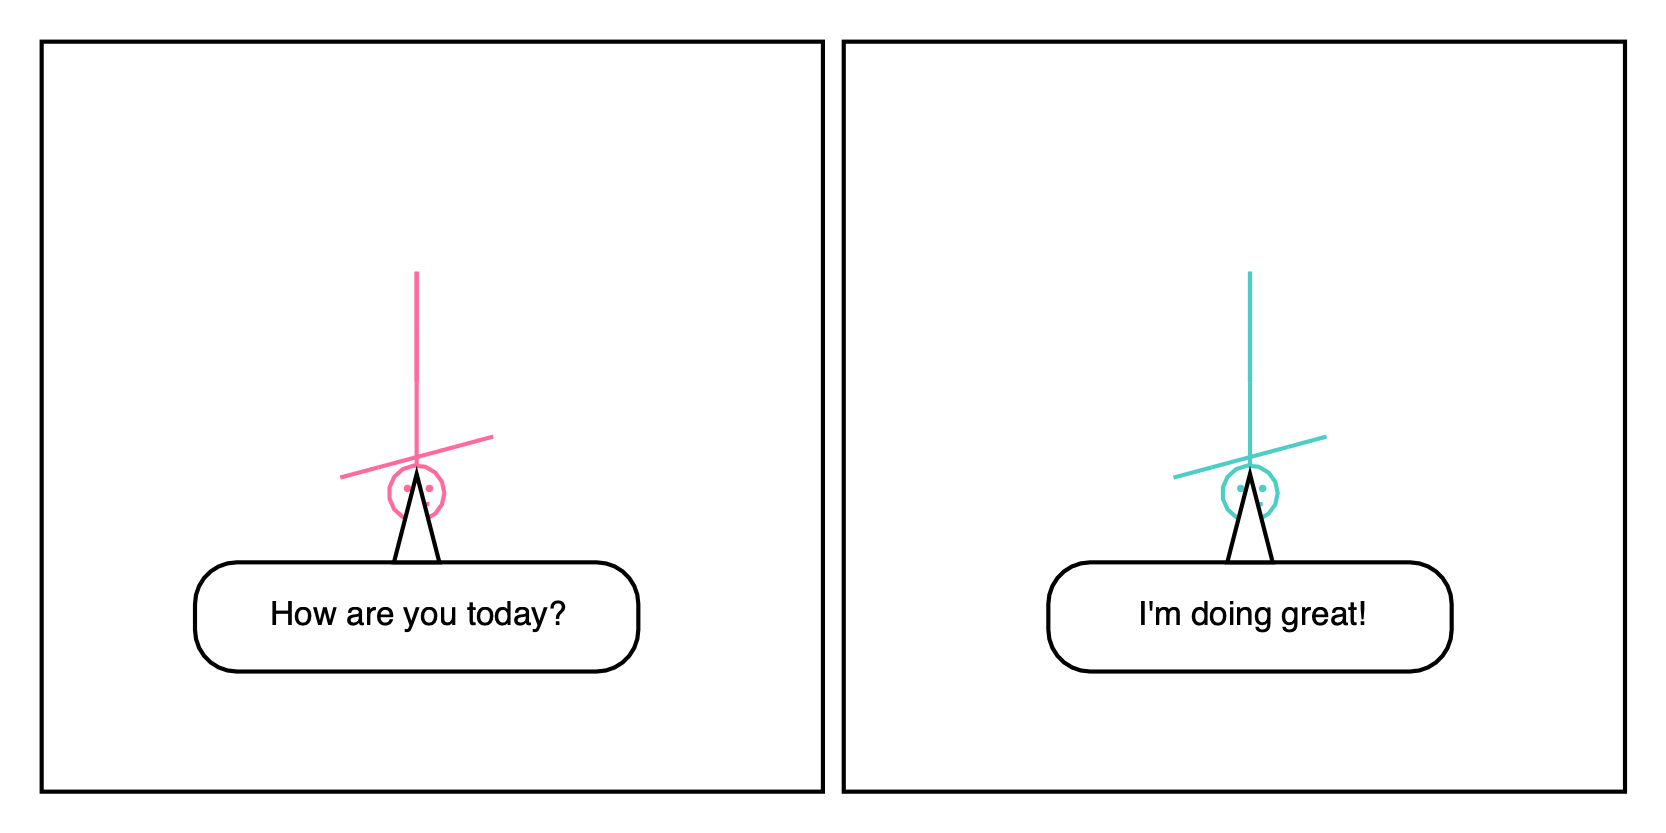
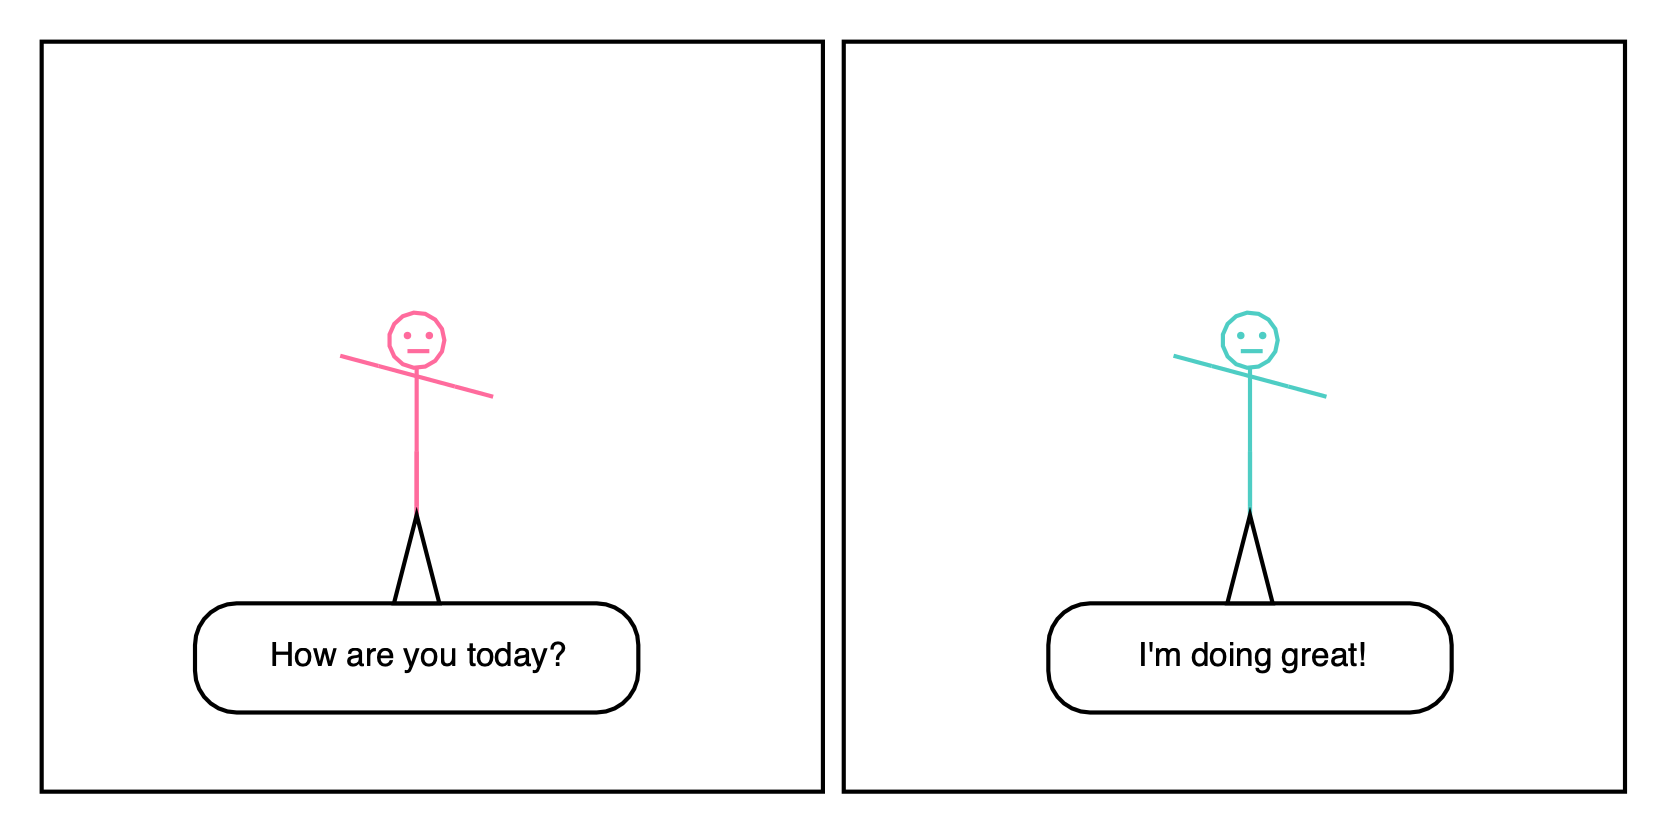
Fix Stickman Y-axis calculations to correct upside-down rendering

diff --git a/comix/cobject/character/character.py b/comix/cobject/character/character.py
@@ -436,10 +436,12 @@ class Stickman(Character):
         points = []
 
         # Calculate vertical positions (top to bottom)
-        head_top = h / 2
-        head_center_y = head_top - head_radius
-        neck_y = head_top - 2 * head_radius  # Head bottom = neck start
-        hip_y = neck_y - torso_length  # Hip level
+        # Note: In standard graphics coordinates, Y increases downward (top-left origin)
+        # So we ADD to move down, SUBTRACT to move up
+        head_top = -h / 2  # Start at top (negative = upward from center)
+        head_center_y = head_top + head_radius  # Head center below top
+        neck_y = head_top + 2 * head_radius  # Head bottom = neck start
+        hip_y = neck_y + torso_length  # Hip level (further down)
 
         # Head ellipse (16 points) - uses head_squash to modify shape
         # Positive head_squash: flatten (wider than tall)
@@ -466,7 +468,7 @@ class Stickman(Character):
         points.append([0, hip_y])
 
         # Arm attachment point (just below neck, about 10% into torso)
-        arm_y = neck_y - torso_length * 0.1
+        arm_y = neck_y + torso_length * 0.1  # ADD to move down
 
         # Arms with elbow (each arm has: shoulder, elbow, hand)
         left_arm_angle = np.radians(self._pose.left_arm)
@@ -474,9 +476,9 @@ class Stickman(Character):
 
         # Left arm: shoulder -> elbow -> hand
         elbow_left_x = -arm_length * 0.5 * np.cos(left_arm_angle)
-        elbow_left_y = arm_y - arm_length * 0.5 * np.sin(left_arm_angle)
+        elbow_left_y = arm_y + arm_length * 0.5 * np.sin(left_arm_angle)  # ADD for down
         hand_left_x = -arm_length * np.cos(left_arm_angle)
-        hand_left_y = arm_y - arm_length * np.sin(left_arm_angle)
+        hand_left_y = arm_y + arm_length * np.sin(left_arm_angle)  # ADD for down
 
         points.append([0, arm_y])  # Shoulder (center)
         points.append([elbow_left_x, elbow_left_y])  # Elbow
@@ -485,9 +487,9 @@ class Stickman(Character):
 
         # Right arm: shoulder -> elbow -> hand
         elbow_right_x = arm_length * 0.5 * np.cos(right_arm_angle)
-        elbow_right_y = arm_y - arm_length * 0.5 * np.sin(right_arm_angle)
+        elbow_right_y = arm_y + arm_length * 0.5 * np.sin(right_arm_angle)  # ADD for down
         hand_right_x = arm_length * np.cos(right_arm_angle)
-        hand_right_y = arm_y - arm_length * np.sin(right_arm_angle)
+        hand_right_y = arm_y + arm_length * np.sin(right_arm_angle)  # ADD for down
 
         points.append([0, arm_y])  # Shoulder (center)
         points.append([elbow_right_x, elbow_right_y])  # Elbow
@@ -500,9 +502,9 @@ class Stickman(Character):
 
         # Left leg: hip -> knee -> foot
         knee_left_x = -leg_length * 0.5 * np.cos(left_leg_angle)
-        knee_left_y = hip_y - leg_length * 0.5 * np.sin(left_leg_angle)
+        knee_left_y = hip_y + leg_length * 0.5 * np.sin(left_leg_angle)  # ADD for down
         foot_left_x = -leg_length * np.cos(left_leg_angle)
-        foot_left_y = hip_y - leg_length * np.sin(left_leg_angle)
+        foot_left_y = hip_y + leg_length * np.sin(left_leg_angle)  # ADD for down
 
         points.append([0, hip_y])  # Hip
         points.append([knee_left_x, knee_left_y])  # Knee
@@ -511,9 +513,9 @@ class Stickman(Character):
 
         # Right leg: hip -> knee -> foot
         knee_right_x = leg_length * 0.5 * np.cos(right_leg_angle)
-        knee_right_y = hip_y - leg_length * 0.5 * np.sin(right_leg_angle)
+        knee_right_y = hip_y + leg_length * 0.5 * np.sin(right_leg_angle)  # ADD for down
         foot_right_x = leg_length * np.cos(right_leg_angle)
-        foot_right_y = hip_y - leg_length * np.sin(right_leg_angle)
+        foot_right_y = hip_y + leg_length * np.sin(right_leg_angle)  # ADD for down
 
         points.append([0, hip_y])  # Hip
         points.append([knee_right_x, knee_right_y])  # Knee

diff --git a/specs/stickman-reference-based.md b/specs/stickman-reference-based.md
@@ -39,6 +39,36 @@ Without reference-based design, our stickman characters may look "off" or "weird
 
 ## Context
 
+### Critical Bug Fix: Upside-Down Stickman
+
+**Problem Identified**: The original implementation had stickman drawn **upside-down** (head at bottom, feet at top) due to incorrect Y-axis coordinate calculations.
+
+**Root Cause**: Graphics coordinate systems use a **top-left origin** where:
+- Small Y values = top of screen
+- Large Y values = bottom of screen
+
+The original code was **subtracting** from Y to move down the body:
+```python
+# WRONG - subtracting Y moves UP, not down!
+head_top = h / 2        # Result: y=50
+neck_y = head_top - 2 * head_radius  # Result: y=23 (ABOVE head_top!)
+hip_y = neck_y - torso_length        # Result: y=-17 (ABOVE neck!)
+```
+
+This caused head (large Y) to render at bottom, feet (small Y) to render at top.
+
+**Solution**: **Add** to Y coordinates to move down:
+```python
+# CORRECT - adding Y moves DOWN
+head_top = -h / 2                # Start at top (y=-50)
+neck_y = head_top + 2 * head_radius  # y=-23 (BELOW head)
+hip_y = neck_y + torso_length        # y=17 (BELOW neck)
+```
+
+**Verification**:
+- Before fix: Min Y = -69.60 (feet), Max Y = 49.93 (head) ❌
+- After fix: Min Y = -49.93 (head), Max Y = 69.60 (feet) ✅
+
 ### Reference Analysis from Web Research
 
 Based on web search findings about professional stick figure design:
@@ -246,6 +276,8 @@ child = Stickman(
 
 ### Corrected Stickman Proportions
 
+**CRITICAL**: All Y-coordinate calculations must ADD to move down (not subtract).
+
 ```python
 class Stickman(Character):
     # Reference-based proportion presets
@@ -313,11 +345,12 @@ class Stickman(Character):
         points = []
 
         # Calculate vertical positions (top to bottom)
-        head_top = h / 2
-        head_center_y = head_top - head_radius
-        head_bottom = head_top - 2 * head_radius  # Neck start
-        torso_bottom = head_bottom - torso_length  # Hip level
-        foot_level = torso_bottom - leg_length
+        # CRITICAL: In graphics coords, Y increases downward (top-left origin)
+        # So we ADD to move down, SUBTRACT to move up
+        head_top = -h / 2  # Start at top (negative = upward from center)
+        head_center_y = head_top + head_radius  # Head center (below top)
+        neck_y = head_top + 2 * head_radius  # Neck start (below head)
+        hip_y = neck_y + torso_length  # Hip level (below neck)
 
         # Head circle (16 points)
         for angle in np.linspace(0, 2 * np.pi, 16):
@@ -327,32 +360,32 @@ class Stickman(Character):
             ])
 
         # Torso line (neck to hips)
-        points.append([0, head_bottom])  # Neck
-        points.append([0, torso_bottom])  # Hips
+        points.append([0, neck_y])  # Neck
+        points.append([0, hip_y])  # Hips
 
         # Arms (shoulders to elbows to hands)
-        arm_attachment_y = head_bottom - torso_length * 0.1  # Just below neck
+        arm_y = neck_y + torso_length * 0.1  # Just below neck (ADD = down)
         left_arm_angle = np.radians(self._pose.left_arm)
         right_arm_angle = np.radians(self._pose.right_arm)
 
         # Left arm (shoulder → elbow → hand)
         elbow_left_x = -arm_length * 0.5 * np.cos(left_arm_angle)
-        elbow_left_y = arm_attachment_y - arm_length * 0.5 * np.sin(left_arm_angle)
+        elbow_left_y = arm_y + arm_length * 0.5 * np.sin(left_arm_angle)  # ADD = down
         hand_left_x = -arm_length * np.cos(left_arm_angle)
-        hand_left_y = arm_attachment_y - arm_length * np.sin(left_arm_angle)
+        hand_left_y = arm_y + arm_length * np.sin(left_arm_angle)  # ADD = down
 
-        points.append([0, arm_attachment_y])  # Shoulder (center)
+        points.append([0, arm_y])  # Shoulder (center)
         points.append([elbow_left_x, elbow_left_y])  # Elbow
         points.append([elbow_left_x, elbow_left_y])  # Elbow (repeat for line segment)
         points.append([hand_left_x, hand_left_y])  # Hand
 
         # Right arm
         elbow_right_x = arm_length * 0.5 * np.cos(right_arm_angle)
-        elbow_right_y = arm_attachment_y - arm_length * 0.5 * np.sin(right_arm_angle)
+        elbow_right_y = arm_y + arm_length * 0.5 * np.sin(right_arm_angle)  # ADD = down
         hand_right_x = arm_length * np.cos(right_arm_angle)
-        hand_right_y = arm_attachment_y - arm_length * np.sin(right_arm_angle)
+        hand_right_y = arm_y + arm_length * np.sin(right_arm_angle)  # ADD = down
 
-        points.append([0, arm_attachment_y])  # Shoulder (center)
+        points.append([0, arm_y])  # Shoulder (center)
         points.append([elbow_right_x, elbow_right_y])  # Elbow
         points.append([elbow_right_x, elbow_right_y])  # Elbow (repeat)
         points.append([hand_right_x, hand_right_y])  # Hand
@@ -363,22 +396,22 @@ class Stickman(Character):
 
         # Left leg
         knee_left_x = -leg_length * 0.5 * np.cos(left_leg_angle)
-        knee_left_y = torso_bottom - leg_length * 0.5 * np.sin(left_leg_angle)
+        knee_left_y = hip_y + leg_length * 0.5 * np.sin(left_leg_angle)  # ADD = down
         foot_left_x = -leg_length * np.cos(left_leg_angle)
-        foot_left_y = torso_bottom - leg_length * np.sin(left_leg_angle)
+        foot_left_y = hip_y + leg_length * np.sin(left_leg_angle)  # ADD = down
 
-        points.append([0, torso_bottom])  # Hip
+        points.append([0, hip_y])  # Hip
         points.append([knee_left_x, knee_left_y])  # Knee
         points.append([knee_left_x, knee_left_y])  # Knee (repeat)
         points.append([foot_left_x, foot_left_y])  # Foot
 
         # Right leg
         knee_right_x = leg_length * 0.5 * np.cos(right_leg_angle)
-        knee_right_y = torso_bottom - leg_length * 0.5 * np.sin(right_leg_angle)
+        knee_right_y = hip_y + leg_length * 0.5 * np.sin(right_leg_angle)  # ADD = down
         foot_right_x = leg_length * np.cos(right_leg_angle)
-        foot_right_y = torso_bottom - leg_length * np.sin(right_leg_angle)
+        foot_right_y = hip_y + leg_length * np.sin(right_leg_angle)  # ADD = down
 
-        points.append([0, torso_bottom])  # Hip
+        points.append([0, hip_y])  # Hip
         points.append([knee_right_x, knee_right_y])  # Knee
         points.append([knee_right_x, knee_right_y])  # Knee (repeat)
         points.append([foot_right_x, foot_right_y])  # Foot
